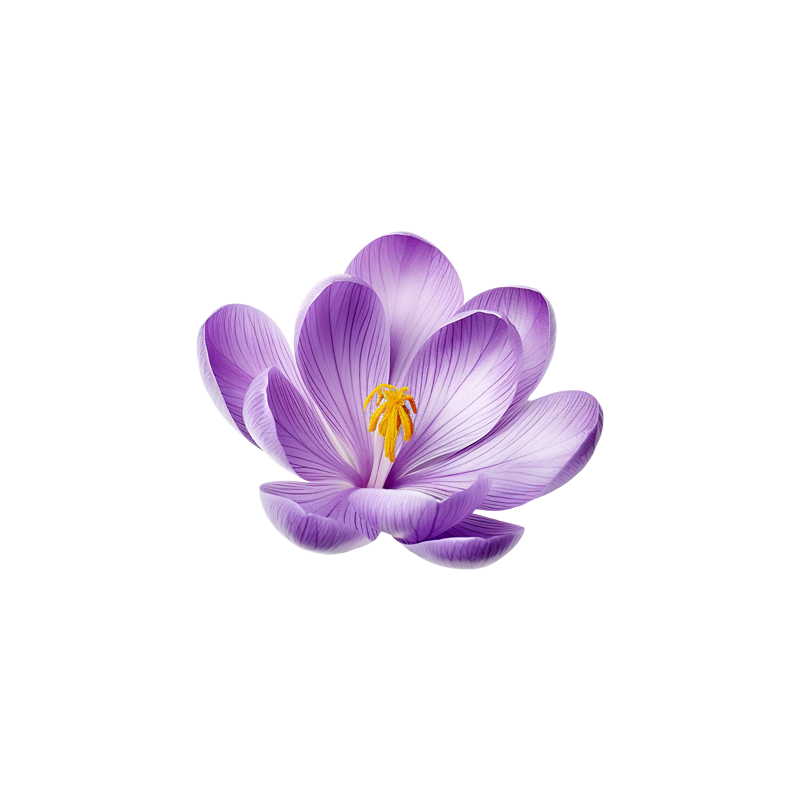
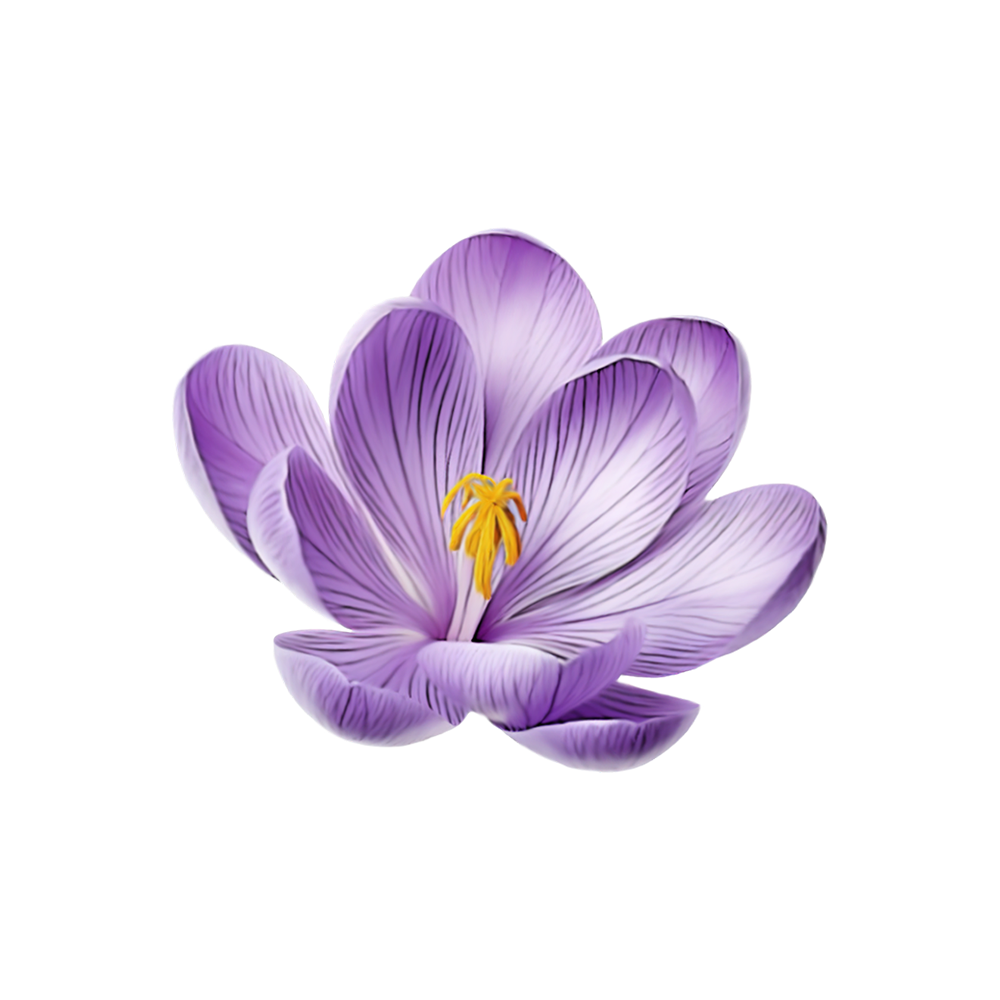
Ingredient image and direction changed

Changed region(s): [[0.1562, 0.2188, 0.8438, 0.7812]]

diff --git a/index.html b/index.html
@@ -38,13 +38,7 @@
 
       <div class="product-ingredients_m">
         <div class="ingrdient-card_m">
-          <img
-            src="https://cdn.shopify.com/s/files/1/0589/0192/1956/files/3_Ingredient_Italian-Cocoa-Butter.png?v=1735034199"
-            loading="lazy"
-            alt="Italian Cocoa Butter"
-            width="100%"
-            height="100%"
-          />
+          <img src="https://cdn.shopify.com/s/files/1/0589/0192/1956/files/3_Ingredient_Italian-Cocoa-Butter.png?v=1735282779" loading="lazy" alt="Italian Cocoa Butter" width="100%"  height="100%"/>
           <p class="ingredient-name_m">Italian Cocoa Butter</p>
           <span class="ingredient-info_m"
             >Deeply hydrates and improves skin elasticity.</span
@@ -52,13 +46,7 @@
         </div>
 
         <div class="ingrdient-card_m">
-          <img
-            src="https://cdn.shopify.com/s/files/1/0589/0192/1956/files/4_Ingredient_Shea-Butter.png?v=1735034198"
-            loading="lazy"
-            alt="Shea Butter"
-            width="100%"
-            height="100%"
-          />
+          <img src="https://cdn.shopify.com/s/files/1/0589/0192/1956/files/4_Ingredient_Shea-Butter.png?v=1735282756" loading="lazy" alt="Shea Butter" width="100%"  height="100%"/>
           <p class="ingredient-name_m">Shea Butter</p>
           <span class="ingredient-info_m"
             >Nourishes and softens dry, rough skin.</span
@@ -66,25 +54,13 @@
         </div>
 
         <div class="ingrdient-card_m">
-          <img
-            src="https://cdn.shopify.com/s/files/1/0589/0192/1956/files/1_Ingredient_Arabica-Coffee.png?v=1735034198"
-            loading="lazy"
-            alt="Coffee Arabica Seed"
-            width="100%"
-            height="100%"
-          />
+          <img src="https://cdn.shopify.com/s/files/1/0589/0192/1956/files/1_Ingredient_Arabica-Coffee.png?v=1735282744" loading="lazy" alt="Coffee Arabica Seed" width="100%"  height="100%"/>
           <p class="ingredient-name_m">Coffee Arabica Seed</p>
           <span class="ingredient-info_m">Tones and revitalizes skin.</span>
         </div>
 
         <div class="ingrdient-card_m">
-          <img
-            src="https://cdn.shopify.com/s/files/1/0589/0192/1956/files/2_Ingredient_Crocus-Bulb.png?v=1735034198"
-            loading="lazy"
-            alt="Crocus Chrysanthus Bulb Extract"
-            width="100%"
-            height="100%"
-          />
+          <img src="https://cdn.shopify.com/s/files/1/0589/0192/1956/files/2_Ingredient_Crocus-Bulb.png?v=1735282768" loading="lazy" alt="Crocus Chrysanthus Bulb Extract" width="100%"  height="100%"/>
           <p class="ingredient-name_m">Crocus Chrysanthus Bulb Extract</p>
           <span class="ingredient-info_m"
             >Boosts collagen for firmer skin.</span
@@ -92,13 +68,7 @@
         </div>
 
         <div class="ingrdient-card_m">
-          <img
-            src="https://cdn.shopify.com/s/files/1/0589/0192/1956/files/6_Ingredient_Senegal-Gum.png?v=1735038359"
-            loading="lazy"
-            alt="Acacia Senegal Gum"
-            width="100%"
-            height="100%"
-          />
+          <img src="https://cdn.shopify.com/s/files/1/0589/0192/1956/files/6_Ingredient_Senegal-Gum.png?v=1735282790" loading="lazy" alt="Acacia Senegal Gum" width="100%"  height="100%"/>
           <p class="ingredient-name_m">Acacia Senegal Gum</p>
           <span class="ingredient-info_m"
             >Enhances skin hydration and resilience.</span
@@ -106,13 +76,7 @@
         </div>
 
         <div class="ingrdient-card_m">
-          <img
-            src="https://cdn.shopify.com/s/files/1/0589/0192/1956/files/5_Ingredient_Hyaluronic-Acid.png?v=1735038360"
-            loading="lazy"
-            alt="Hyaluronic Acid"
-            width="100%"
-            height="100%"
-          />
+          <img src="https://cdn.shopify.com/s/files/1/0589/0192/1956/files/5_Ingredient_Hyaluronic-Acid.png?v=1735038360" loading="lazy" alt="Hyaluronic Acid" width="100%"  height="100%"/>
           <p class="ingredient-name_m">Hyaluronic Acid</p>
           <span class="ingredient-info_m"
             >Locks in moisture for soft, glowing skin.</span
@@ -164,11 +128,7 @@
 
       <div class="product-ingredients">
         <div class="ingrdient-card">
-          <img
-            src="https://cdn.shopify.com/s/files/1/0589/0192/1956/files/3_Ingredient_Italian-Cocoa-Butter.png?v=1735034199"
-            loading="lazy"
-            alt="Italian Cocoa Butter"
-          />
+          <img src="https://cdn.shopify.com/s/files/1/0589/0192/1956/files/3_Ingredient_Italian-Cocoa-Butter.png?v=1735282779" loading="lazy" alt="Italian Cocoa Butter" />
           <p class="ingredient-name">Italian Cocoa Butter</p>
           <span class="ingredient-info"
             >Deeply hydrates and improves skin elasticity.</span
@@ -176,11 +136,7 @@
         </div>
 
         <div class="ingrdient-card">
-          <img
-            src="https://cdn.shopify.com/s/files/1/0589/0192/1956/files/4_Ingredient_Shea-Butter.png?v=1735034198"
-            loading="lazy"
-            alt="Shea Butter"
-          />
+          <img src="https://cdn.shopify.com/s/files/1/0589/0192/1956/files/4_Ingredient_Shea-Butter.png?v=1735282756" loading="lazy" alt="Shea Butter" />
           <p class="ingredient-name">Shea Butter</p>
           <span class="ingredient-info"
             >Nourishes and softens dry, rough skin.</span
@@ -188,31 +144,19 @@
         </div>
 
         <div class="ingrdient-card">
-          <img
-            src="https://cdn.shopify.com/s/files/1/0589/0192/1956/files/1_Ingredient_Arabica-Coffee.png?v=1735034198"
-            loading="lazy"
-            alt="Coffee Arabica Seed"
-          />
+          <img src="https://cdn.shopify.com/s/files/1/0589/0192/1956/files/1_Ingredient_Arabica-Coffee.png?v=1735282744" loading="lazy" alt="Coffee Arabica Seed" />
           <p class="ingredient-name">Coffee Arabica Seed</p>
           <span class="ingredient-info">Tones and revitalizes skin.</span>
         </div>
 
         <div class="ingrdient-card">
-          <img
-            src="https://cdn.shopify.com/s/files/1/0589/0192/1956/files/2_Ingredient_Crocus-Bulb.png?v=1735034198"
-            loading="lazy"
-            alt="Crocus Chrysanthus Bulb Extract"
-          />
+          <img src="https://cdn.shopify.com/s/files/1/0589/0192/1956/files/2_Ingredient_Crocus-Bulb.png?v=1735034198" loading="lazy" alt="Crocus Chrysanthus Bulb Extract" />
           <p class="ingredient-name">Crocus Chrysanthus Bulb Extract</p>
           <span class="ingredient-info">Boosts collagen for firmer skin.</span>
         </div>
 
         <div class="ingrdient-card">
-          <img
-            src="https://cdn.shopify.com/s/files/1/0589/0192/1956/files/6_Ingredient_Senegal-Gum.png?v=1735038359"
-            loading="lazy"
-            alt="Acacia Senegal Gum"
-          />
+          <img src="https://cdn.shopify.com/s/files/1/0589/0192/1956/files/6_Ingredient_Senegal-Gum.png?v=1735282790" loading="lazy" alt="Acacia Senegal Gum" />
           <p class="ingredient-name">Acacia Senegal Gum</p>
           <span class="ingredient-info"
             >Enhances skin hydration and resilience.</span
@@ -220,11 +164,7 @@
         </div>
 
         <div class="ingrdient-card">
-          <img
-            src="https://cdn.shopify.com/s/files/1/0589/0192/1956/files/5_Ingredient_Hyaluronic-Acid.png?v=1735038360"
-            loading="lazy"
-            alt="Hyaluronic Acid"
-          />
+          <img src="https://cdn.shopify.com/s/files/1/0589/0192/1956/files/5_Ingredient_Hyaluronic-Acid.png?v=1735038360" loading="lazy" alt="Hyaluronic Acid" />
           <p class="ingredient-name">Hyaluronic Acid</p>
           <span class="ingredient-info"
             >Locks in moisture for soft, glowing skin.</span

diff --git a/style.css b/style.css
@@ -171,14 +171,20 @@ canvas {
   align-items: center;
   flex-direction: column;
   font-family: "Poppins", sans-serif;
+
 }
+
+
 
 /* 3.1.1 Ingredient card Image */
 .ingrdient-card img {
   width: 300px;
   animation: moveUpDown 2s ease-in-out infinite;
   display: block;
-  margin: 0 auto;
+  /* margin: 0 auto; */
+  /* border: 2px solid rgb(245, 245, 245); */
+  border-radius: 5px ; 
+  
 }
 
 @keyframes moveUpDown {
@@ -187,10 +193,13 @@ canvas {
     transform: translateY(0);
   }
   50% {
-    transform: translateY(-10px);
+    transform: translateY(-20px);
   }
 }
 
+.ingrdient-card img:hover {
+  animation: none;
+}
 /* 3.1.2 Ingredient Name */
 .ingredient-name {
   text-transform: uppercase;
@@ -335,9 +344,26 @@ canvas {
 .product-ingredients_m{
   margin-top: 50px;
 }
+.product-ingredients_m {
+  display: flex;
+  flex-direction: row;
+  flex-wrap: nowrap;
+  padding-bottom: 2vh;
+  overflow: auto;
+  scroll-behavior: smooth;
+  /* border: 1px solid red; */
+}
+
+.ingrdient-card_m{
+  display: flex;
+  align-items: center;
+  flex-direction: column;
+  font-family: "Poppins", sans-serif;
+  margin-top: 50px;
+}
 
 /* 3.1 Ingredient Card */
-.ingrdient-card_m{
+/* .ingrdient-card_m{
   position: sticky;
   top: 5%;
   margin: 20px 20px;
@@ -345,14 +371,13 @@ canvas {
   align-items: center;
   flex-direction: column;
   font-family: "Poppins", sans-serif;
-  /* background-image: url(https://cdn.shopify.com/s/files/1/0589/0192/1956/files/Body-butter-bg.jpg?v=1734950195);
+  background-image: url(https://cdn.shopify.com/s/files/1/0589/0192/1956/files/Body-butter-bg.jpg?v=1734950195);
   background-size: cover;
   background-repeat: no-repeat;
   background-position: center;
-  border-radius: 10%; */
-  /* background-attachment: fixed;  */
-  /* border: 1px solid red; */
-}
+  border-radius: 10%;
+  background-attachment: fixed; 
+} */
 
 /* 3.1.1 Ingredient card Image */
 .ingrdient-card_m img {
@@ -378,7 +403,7 @@ canvas {
   margin-bottom: 10px;
   text-align: center;
   font-weight: bold;
-  font-size: 24px;
+  font-size: 18px;
   color: #183457;
 }
 
@@ -386,7 +411,7 @@ canvas {
 .ingredient-info_m {
   margin-bottom: 10px;
   text-align: center;
-  font-size: 18px;
+  font-size: 14px;
   color: rgb(51, 51, 51);
 }
 

diff --git a/script.js b/script.js
@@ -308,30 +308,30 @@ tl_product_image_m.from(".benefits-product_m li", {
   },
 });
 
-// tl_product_ingredient_m.from(".ingrdient-card_m", {
-//   y: 10,
-//   duration: 0.5,
-//   opacity: 0,
-//   delay: 1,
-//   stagger: 1,
-//   scrollTrigger: {
-//     trigger: ".ingrdient-card_m",
-//     start: "top 60%",
-//     end: "top 40%",
-//     scrub: 1,
-//   },
-// });
-
-document.querySelectorAll(".ingrdient-card_m").forEach((card) => {
-  gsap.to(card, {
-    scale: 0.7,
-    opacity: 0,
-    scrollTrigger: {
-      trigger: card,
-      start: "top 5%",
-      end: "bottom 5%",
-      // markers: true,
-      scrub: true,
-    },
-  });
+tl_product_ingredient_m.from(".ingrdient-card_m", {
+  y: 10,
+  duration: 0.5,
+  opacity: 0,
+  delay: 1,
+  stagger: 1,
+  scrollTrigger: {
+    trigger: ".ingrdient-card_m",
+    start: "top 60%",
+    end: "top 40%",
+    scrub: 1,
+  },
 });
+
+// document.querySelectorAll(".ingrdient-card_m").forEach((card) => {
+//   gsap.to(card, {
+//     scale: 0.7,
+//     opacity: 0,
+//     scrollTrigger: {
+//       trigger: card,
+//       start: "top 5%",
+//       end: "bottom 5%",
+//       // markers: true,
+//       scrub: true,
+//     },
+//   });
+// });
